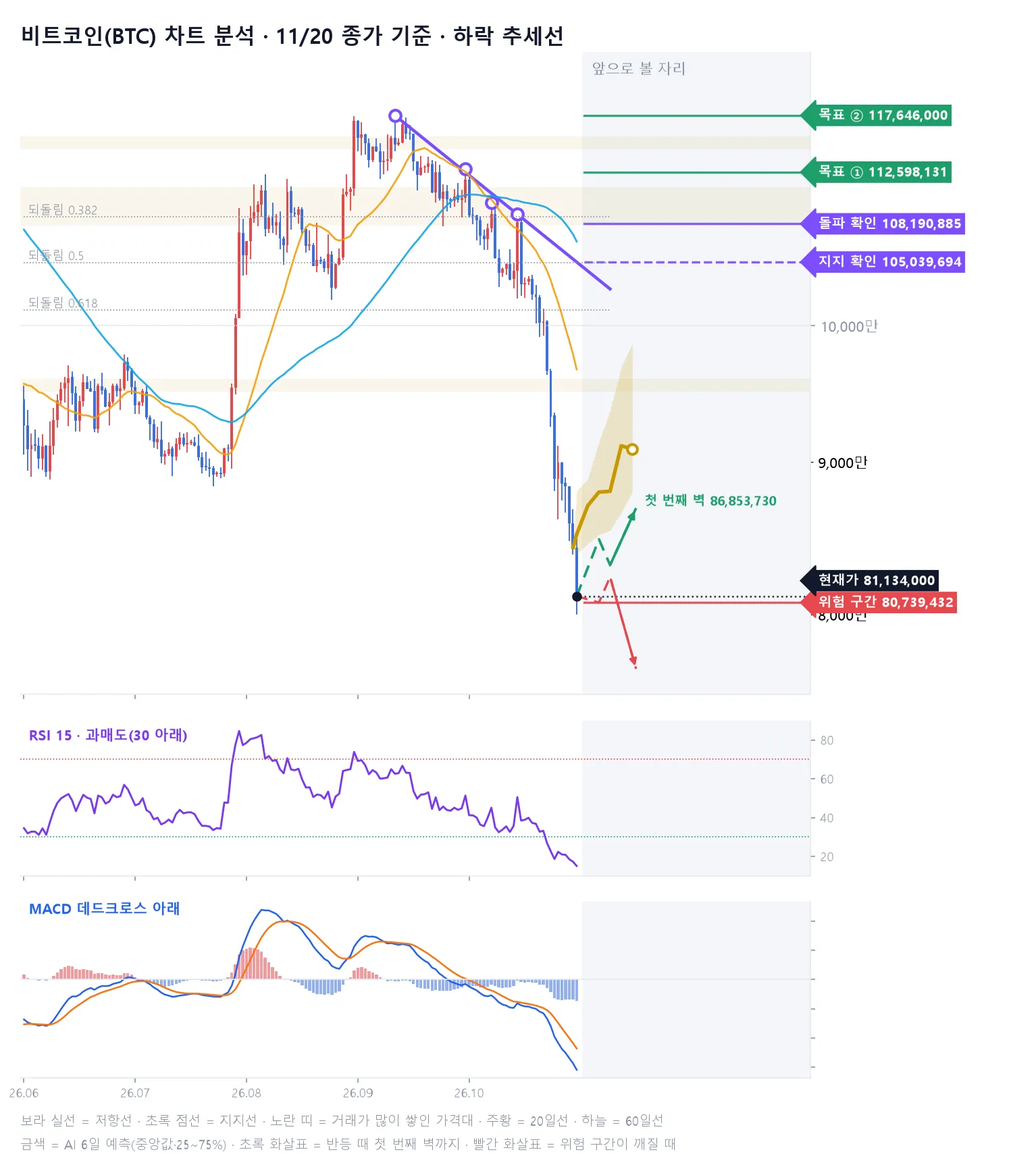
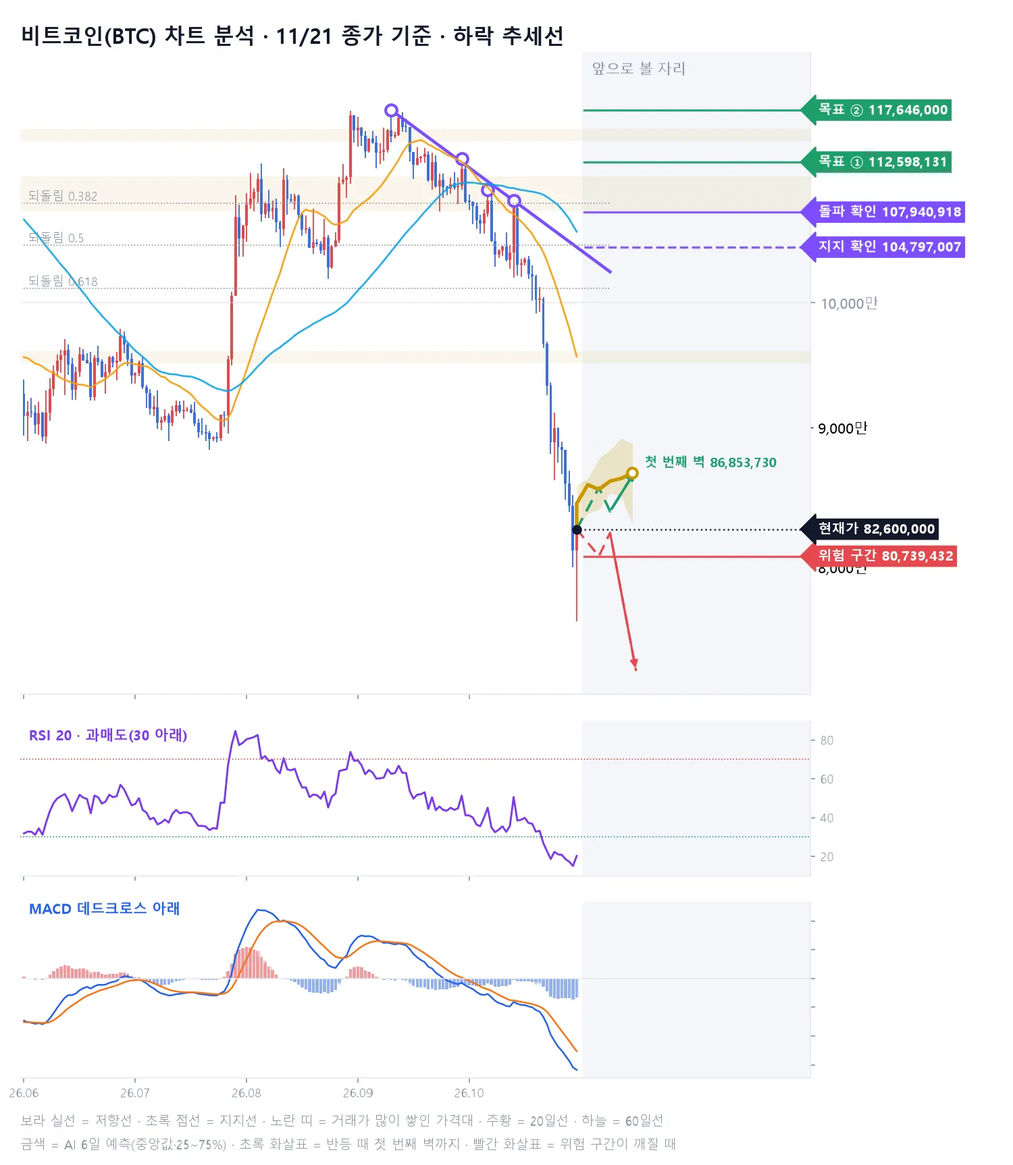
무료 공개 종목 페이지 자동 갱신

diff --git a/s/index.html b/s/index.html
@@ -93,8 +93,8 @@
     <h1>오늘의 무료 공개 종목</h1>
     <p style="margin:0;color:#B7BFD0">유튜브 쇼츠에 나온 종목의 AI 판정과 6일 예측 흐름을 누구나 볼 수 있어요</p>
   </section>
-  <div class="pk-list"><a class="card pk-item" href="BTC/"><span><b>비트코인(BTC)</b><small>코인 · 업비트 · 11/20 예측</small></span><b class="v-mx">혼돈</b></a><a class="card pk-item" href="ETH/"><span><b>이더리움(ETH)</b><small>코인 · 업비트 · 11/21 예측</small></span><b class="v-mx">혼돈</b></a><a class="card pk-item" href="SUI/"><span><b>수이(SUI)</b><small>코인 · 업비트 · 11/22 예측</small></span><b class="v-up">상승</b></a><a class="card pk-item" href="SAND/"><span><b>샌드박스(SAND)</b><small>코인 · 업비트 · 11/22 예측</small></span><b class="v-up">상승</b></a><a class="card pk-item" href="XLM/"><span><b>스텔라루멘(XLM)</b><small>코인 · 업비트 · 11/22 예측</small></span><b class="v-up">상승</b></a><a class="card pk-item" href="AAVE/"><span><b>에이브(AAVE)</b><small>코인 · 업비트 · 11/22 예측</small></span><b class="v-up">상승</b></a><a class="card pk-item" href="MTL/"><span><b>메탈(MTL)</b><small>코인 · 업비트 · 11/22 예측</small></span><b class="v-up">상승</b></a><a class="card pk-item" href="TESLA/"><span><b>테슬라(TSLA)</b><small>미국 주식 · 11/21 예측</small></span><b class="v-up">상승</b></a><a class="card pk-item" href="PALANTIR/"><span><b>팔란티어(PALANTIR)</b><small>미국 주식 · 11/21 예측</small></span><b class="v-up">상승</b></a><a class="card pk-item" href="NVIDIA/"><span><b>엔비디아(NVIDIA)</b><small>미국 주식 · 11/21 예측</small></span><b class="v-up">상승</b></a><a class="card pk-item" href="DOW/"><span><b>다우존스(DOW)</b><small>미국 주식 · 11/21 예측</small></span><b class="v-up">상승</b></a><a class="card pk-item" href="RUSSELL2000/"><span><b>러셀2000(RUSSELL2000)</b><small>미국 주식 · 11/21 예측</small></span><b class="v-up">상승</b></a><a class="card pk-item" href="MERCADOLIBRE/"><span><b>메르카도리브레(MERCADOLIBRE)</b><small>미국 주식 · 11/21 예측</small></span><b class="v-up">상승</b></a><a class="card pk-item" href="SK%ED%95%98%EC%9D%B4%EB%8B%89%EC%8A%A4/"><span><b>SK하이닉스(000660)</b><small>코스피200 · 11/20 예측</small></span><b class="v-mx">혼돈</b></a><a class="card pk-item" href="%EC%82%BC%EC%84%B1%EC%A0%84%EC%9E%90/"><span><b>삼성전자(005930)</b><small>코스피200 · 11/21 예측</small></span><b class="v-mx">혼돈</b></a><a class="card pk-item" href="%ED%95%9C%ED%99%94%EC%86%94%EB%A3%A8%EC%85%98/"><span><b>한화솔루션</b><small>코스피200 · 11/21 예측</small></span><b class="v-mx">혼돈</b></a><a class="card pk-item" href="KODEX%EB%AF%B8%EA%B5%AD%EB%82%98%EC%8A%A4%EB%8B%A5100TR/"><span><b>KODEX미국나스닥100TR</b><small>코스피200 · 11/21 예측</small></span><b class="v-up">상승</b></a><a class="card pk-item" href="TIGER2%EC%B0%A8%EC%A0%84%EC%A7%80%ED%85%8C%EB%A7%88/"><span><b>TIGER2차전지테마</b><small>코스피200 · 11/21 예측</small></span><b class="v-up">상승</b></a><a class="card pk-item" href="TIGER%EB%AF%B8%EA%B5%AD%ED%85%8C%ED%81%ACTOP10/"><span><b>TIGER미국테크TOP10</b><small>코스피200 · 11/21 예측</small></span><b class="v-up">상승</b></a><a class="card pk-item" href="KODEX2%EC%B0%A8%EC%A0%84%EC%A7%80%EC%82%B0%EC%97%85/"><span><b>KODEX2차전지산업</b><small>코스피200 · 11/21 예측</small></span><b class="v-up">상승</b></a><a class="card pk-item" href="KOSDAQ/"><span><b>코스닥(KOSDAQ)</b><small>코스피 지수 · 11/21 예측</small></span><b class="v-up">상승</b></a><a class="card pk-item" href="KOSPI/"><span><b>코스피(KOSPI)</b><small>코스피 지수 · 11/21 예측</small></span><b class="v-up">상승</b></a></div>
-  <h2 style="font-size:17px;margin:12px 0 0">지난 공개 종목</h2><div class="pk-list"><a class="card pk-item" href="ZRO/"><span><b>레이어제로(ZRO)</b><small>코인 · 업비트 · 11/21 예측</small></span><b class="v-mx">혼돈</b></a><a class="card pk-item" href="ETC/"><span><b>이더리움클래식(ETC)</b><small>코인 · 업비트 · 11/21 예측</small></span><b class="v-up">상승</b></a><a class="card pk-item" href="MANA/"><span><b>디센트럴랜드(MANA)</b><small>코인 · 업비트 · 11/21 예측</small></span><b class="v-up">상승</b></a><a class="card pk-item" href="APT/"><span><b>앱토스(APT)</b><small>코인 · 업비트 · 11/20 예측</small></span><b class="v-up">상승</b></a><a class="card pk-item" href="STRAX/"><span><b>저트라(STRAX)</b><small>코인 · 업비트 · 11/20 예측</small></span><b class="v-up">상승</b></a><a class="card pk-item" href="ENS/"><span><b>이더리움네임서비스(ENS)</b><small>코인 · 업비트 · 11/20 예측</small></span><b class="v-up">상승</b></a><a class="card pk-item" href="KODEXWTI%EC%9B%90%EC%9C%A0%EC%84%A0%EB%AC%BCH/"><span><b>KODEXWTI원유선물H</b><small>코스피200 · 11/20 예측</small></span><b class="v-up">상승</b></a><a class="card pk-item" href="%ED%95%9C%EC%A0%84%EA%B8%B0%EC%88%A0/"><span><b>한전기술</b><small>코스피200 · 11/20 예측</small></span><b class="v-up">상승</b></a><a class="card pk-item" href="KODEX%EA%B3%A8%EB%93%9C%EC%84%A0%EB%AC%BCH/"><span><b>KODEX골드선물H</b><small>코스피200 · 11/20 예측</small></span><b class="v-mx">혼돈</b></a><a class="card pk-item" href="STRATEGY/"><span><b>스트래티지(STRATEGY)</b><small>미국 주식 · 11/19 예측</small></span><b class="v-up">상승</b></a><a class="card pk-item" href="NETFLIX/"><span><b>넷플릭스(NETFLIX)</b><small>미국 주식 · 11/19 예측</small></span><b class="v-up">상승</b></a><a class="card pk-item" href="SHIB/"><span><b>시바이누(SHIB)</b><small>코인 · 업비트 · 11/19 예측</small></span><b class="v-up">상승</b></a><a class="card pk-item" href="TOKAMAK/"><span><b>토카막네트워크(TOKAMAK)</b><small>코인 · 업비트 · 11/19 예측</small></span><b class="v-up">상승</b></a><a class="card pk-item" href="TIGER%EB%AF%B8%EA%B5%ADSP500/"><span><b>TIGER미국SP500</b><small>코스피200 · 11/19 예측</small></span><b class="v-mx">혼돈</b></a><a class="card pk-item" href="%EA%B8%B0%EC%95%84/"><span><b>기아</b><small>코스피200 · 11/19 예측</small></span><b class="v-mx">혼돈</b></a><a class="card pk-item" href="%ED%98%84%EB%8C%80%EB%A1%9C%ED%85%9C/"><span><b>현대로템</b><small>코스피200 · 11/19 예측</small></span><b class="v-up">상승</b></a><a class="card pk-item" href="TIGER%EB%B0%98%EB%8F%84%EC%B2%B4TOP10/"><span><b>TIGER반도체TOP10</b><small>코스피200 · 11/19 예측</small></span><b class="v-up">상승</b></a><a class="card pk-item" href="MBL/"><span><b>무비블록(MBL)</b><small>코인 · 업비트 · 11/18 예측</small></span><b class="v-up">상승</b></a><a class="card pk-item" href="SC/"><span><b>시아코인(SC)</b><small>코인 · 업비트 · 11/18 예측</small></span><b class="v-up">상승</b></a><a class="card pk-item" href="ELF/"><span><b>엘프(ELF)</b><small>코인 · 업비트 · 11/18 예측</small></span><b class="v-up">상승</b></a><a class="card pk-item" href="BITMINE/"><span><b>비트마인(BITMINE)</b><small>미국 주식 · 11/18 예측</small></span><b class="v-up">상승</b></a><a class="card pk-item" href="NASDAQ100/"><span><b>나스닥100(NASDAQ100)</b><small>미국 주식 · 11/18 예측</small></span><b class="v-up">상승</b></a><a class="card pk-item" href="NASDAQ/"><span><b>나스닥(NASDAQ)</b><small>미국 주식 · 11/18 예측</small></span><b class="v-up">상승</b></a><a class="card pk-item" href="DB%ED%95%98%EC%9D%B4%ED%85%8D/"><span><b>DB하이텍</b><small>코스피200 · 11/18 예측</small></span><b class="v-up">상승</b></a><a class="card pk-item" href="%ED%95%9C%ED%99%94%EC%83%9D%EB%AA%85/"><span><b>한화생명</b><small>코스피200 · 11/18 예측</small></span><b class="v-mx">혼돈</b></a><a class="card pk-item" href="SOL/"><span><b>솔라나(SOL)</b><small>코인 · 업비트 · 11/17 예측</small></span><b class="v-up">상승</b></a><a class="card pk-item" href="HBAR/"><span><b>헤데라(HBAR)</b><small>코인 · 업비트 · 11/17 예측</small></span><b class="v-up">상승</b></a><a class="card pk-item" href="NEAR/"><span><b>니어프로토콜(NEAR)</b><small>코인 · 업비트 · 11/17 예측</small></span><b class="v-up">상승</b></a><a class="card pk-item" href="CISCO/"><span><b>시스코(CISCO)</b><small>미국 주식 · 11/17 예측</small></span><b class="v-up">상승</b></a><a class="card pk-item" href="DB%EC%86%90%ED%95%B4%EB%B3%B4%ED%97%98/"><span><b>DB손해보험</b><small>코스피200 · 11/17 예측</small></span><b class="v-up">상승</b></a><a class="card pk-item" href="NIKKEI225/"><span><b>NIKKEI225</b><small>코스피200 · 11/17 예측</small></span><b class="v-up">상승</b></a><a class="card pk-item" href="LG/"><span><b>LG</b><small>코스피200 · 11/17 예측</small></span><b class="v-up">상승</b></a><a class="card pk-item" href="NEO/"><span><b>네오(NEO)</b><small>코인 · 업비트 · 11/16 예측</small></span><b class="v-up">상승</b></a><a class="card pk-item" href="MED/"><span><b>메디블록(MED)</b><small>코인 · 업비트 · 11/16 예측</small></span><b class="v-up">상승</b></a><a class="card pk-item" href="VET/"><span><b>비체인(VET)</b><small>코인 · 업비트 · 11/16 예측</small></span><b class="v-up">상승</b></a><a class="card pk-item" href="TFUEL/"><span><b>쎄타퓨엘(TFUEL)</b><small>코인 · 업비트 · 11/16 예측</small></span><b class="v-up">상승</b></a><a class="card pk-item" href="SP500/"><span><b>S&amp;P500(SPX)</b><small>미국 주식 · 11/14 예측</small></span><b class="v-dn">하락</b></a><a class="card pk-item" href="BITCOIN_ETF_FIDELITY/"><span><b>비트코인 현물 피델리티(BITCOIN_ETF_FIDELITY)</b><small>미국 주식 · 11/14 예측</small></span><b class="v-up">상승</b></a><a class="card pk-item" href="BITCOIN_ETF_ISHARES/"><span><b>비트코인 현물 아이셰어즈(BITCOIN_ETF_ISHARES)</b><small>미국 주식 · 11/14 예측</small></span><b class="v-up">상승</b></a></div>
+  <div class="pk-list"><a class="card pk-item" href="BTC/"><span><b>비트코인(BTC)</b><small>코인 · 업비트 · 11/22 예측</small></span><b class="v-up">상승</b></a><a class="card pk-item" href="ETH/"><span><b>이더리움(ETH)</b><small>코인 · 업비트 · 11/21 예측</small></span><b class="v-mx">혼돈</b></a><a class="card pk-item" href="SUI/"><span><b>수이(SUI)</b><small>코인 · 업비트 · 11/22 예측</small></span><b class="v-up">상승</b></a><a class="card pk-item" href="SAND/"><span><b>샌드박스(SAND)</b><small>코인 · 업비트 · 11/22 예측</small></span><b class="v-up">상승</b></a><a class="card pk-item" href="XLM/"><span><b>스텔라루멘(XLM)</b><small>코인 · 업비트 · 11/22 예측</small></span><b class="v-up">상승</b></a><a class="card pk-item" href="AAVE/"><span><b>에이브(AAVE)</b><small>코인 · 업비트 · 11/22 예측</small></span><b class="v-up">상승</b></a><a class="card pk-item" href="MTL/"><span><b>메탈(MTL)</b><small>코인 · 업비트 · 11/22 예측</small></span><b class="v-up">상승</b></a><a class="card pk-item" href="TESLA/"><span><b>테슬라(TSLA)</b><small>미국 주식 · 11/21 예측</small></span><b class="v-up">상승</b></a><a class="card pk-item" href="PALANTIR/"><span><b>팔란티어(PALANTIR)</b><small>미국 주식 · 11/21 예측</small></span><b class="v-up">상승</b></a><a class="card pk-item" href="NVIDIA/"><span><b>엔비디아(NVIDIA)</b><small>미국 주식 · 11/21 예측</small></span><b class="v-up">상승</b></a><a class="card pk-item" href="DOW/"><span><b>다우존스(DOW)</b><small>미국 주식 · 11/21 예측</small></span><b class="v-up">상승</b></a><a class="card pk-item" href="RUSSELL2000/"><span><b>러셀2000(RUSSELL2000)</b><small>미국 주식 · 11/21 예측</small></span><b class="v-up">상승</b></a><a class="card pk-item" href="MERCADOLIBRE/"><span><b>메르카도리브레(MERCADOLIBRE)</b><small>미국 주식 · 11/21 예측</small></span><b class="v-up">상승</b></a><a class="card pk-item" href="%EC%82%BC%EC%84%B1%EC%A0%84%EC%9E%90/"><span><b>삼성전자(005930)</b><small>코스피200 · 11/21 예측</small></span><b class="v-mx">혼돈</b></a><a class="card pk-item" href="%ED%95%9C%ED%99%94%EC%86%94%EB%A3%A8%EC%85%98/"><span><b>한화솔루션</b><small>코스피200 · 11/21 예측</small></span><b class="v-mx">혼돈</b></a><a class="card pk-item" href="KODEX%EB%AF%B8%EA%B5%AD%EB%82%98%EC%8A%A4%EB%8B%A5100TR/"><span><b>KODEX미국나스닥100TR</b><small>코스피200 · 11/21 예측</small></span><b class="v-up">상승</b></a><a class="card pk-item" href="TIGER2%EC%B0%A8%EC%A0%84%EC%A7%80%ED%85%8C%EB%A7%88/"><span><b>TIGER2차전지테마</b><small>코스피200 · 11/21 예측</small></span><b class="v-up">상승</b></a><a class="card pk-item" href="TIGER%EB%AF%B8%EA%B5%AD%ED%85%8C%ED%81%ACTOP10/"><span><b>TIGER미국테크TOP10</b><small>코스피200 · 11/21 예측</small></span><b class="v-up">상승</b></a><a class="card pk-item" href="KODEX2%EC%B0%A8%EC%A0%84%EC%A7%80%EC%82%B0%EC%97%85/"><span><b>KODEX2차전지산업</b><small>코스피200 · 11/21 예측</small></span><b class="v-up">상승</b></a><a class="card pk-item" href="KOSDAQ/"><span><b>코스닥(KOSDAQ)</b><small>코스피 지수 · 11/21 예측</small></span><b class="v-up">상승</b></a><a class="card pk-item" href="KOSPI/"><span><b>코스피(KOSPI)</b><small>코스피 지수 · 11/21 예측</small></span><b class="v-up">상승</b></a></div>
+  <h2 style="font-size:17px;margin:12px 0 0">지난 공개 종목</h2><div class="pk-list"><a class="card pk-item" href="ZRO/"><span><b>레이어제로(ZRO)</b><small>코인 · 업비트 · 11/21 예측</small></span><b class="v-mx">혼돈</b></a><a class="card pk-item" href="ETC/"><span><b>이더리움클래식(ETC)</b><small>코인 · 업비트 · 11/21 예측</small></span><b class="v-up">상승</b></a><a class="card pk-item" href="MANA/"><span><b>디센트럴랜드(MANA)</b><small>코인 · 업비트 · 11/21 예측</small></span><b class="v-up">상승</b></a><a class="card pk-item" href="SK%ED%95%98%EC%9D%B4%EB%8B%89%EC%8A%A4/"><span><b>SK하이닉스(000660)</b><small>코스피200 · 11/20 예측</small></span><b class="v-mx">혼돈</b></a><a class="card pk-item" href="APT/"><span><b>앱토스(APT)</b><small>코인 · 업비트 · 11/20 예측</small></span><b class="v-up">상승</b></a><a class="card pk-item" href="STRAX/"><span><b>저트라(STRAX)</b><small>코인 · 업비트 · 11/20 예측</small></span><b class="v-up">상승</b></a><a class="card pk-item" href="ENS/"><span><b>이더리움네임서비스(ENS)</b><small>코인 · 업비트 · 11/20 예측</small></span><b class="v-up">상승</b></a><a class="card pk-item" href="KODEXWTI%EC%9B%90%EC%9C%A0%EC%84%A0%EB%AC%BCH/"><span><b>KODEXWTI원유선물H</b><small>코스피200 · 11/20 예측</small></span><b class="v-up">상승</b></a><a class="card pk-item" href="%ED%95%9C%EC%A0%84%EA%B8%B0%EC%88%A0/"><span><b>한전기술</b><small>코스피200 · 11/20 예측</small></span><b class="v-up">상승</b></a><a class="card pk-item" href="KODEX%EA%B3%A8%EB%93%9C%EC%84%A0%EB%AC%BCH/"><span><b>KODEX골드선물H</b><small>코스피200 · 11/20 예측</small></span><b class="v-mx">혼돈</b></a><a class="card pk-item" href="STRATEGY/"><span><b>스트래티지(STRATEGY)</b><small>미국 주식 · 11/19 예측</small></span><b class="v-up">상승</b></a><a class="card pk-item" href="NETFLIX/"><span><b>넷플릭스(NETFLIX)</b><small>미국 주식 · 11/19 예측</small></span><b class="v-up">상승</b></a><a class="card pk-item" href="SHIB/"><span><b>시바이누(SHIB)</b><small>코인 · 업비트 · 11/19 예측</small></span><b class="v-up">상승</b></a><a class="card pk-item" href="TOKAMAK/"><span><b>토카막네트워크(TOKAMAK)</b><small>코인 · 업비트 · 11/19 예측</small></span><b class="v-up">상승</b></a><a class="card pk-item" href="TIGER%EB%AF%B8%EA%B5%ADSP500/"><span><b>TIGER미국SP500</b><small>코스피200 · 11/19 예측</small></span><b class="v-mx">혼돈</b></a><a class="card pk-item" href="%EA%B8%B0%EC%95%84/"><span><b>기아</b><small>코스피200 · 11/19 예측</small></span><b class="v-mx">혼돈</b></a><a class="card pk-item" href="%ED%98%84%EB%8C%80%EB%A1%9C%ED%85%9C/"><span><b>현대로템</b><small>코스피200 · 11/19 예측</small></span><b class="v-up">상승</b></a><a class="card pk-item" href="TIGER%EB%B0%98%EB%8F%84%EC%B2%B4TOP10/"><span><b>TIGER반도체TOP10</b><small>코스피200 · 11/19 예측</small></span><b class="v-up">상승</b></a><a class="card pk-item" href="MBL/"><span><b>무비블록(MBL)</b><small>코인 · 업비트 · 11/18 예측</small></span><b class="v-up">상승</b></a><a class="card pk-item" href="SC/"><span><b>시아코인(SC)</b><small>코인 · 업비트 · 11/18 예측</small></span><b class="v-up">상승</b></a><a class="card pk-item" href="ELF/"><span><b>엘프(ELF)</b><small>코인 · 업비트 · 11/18 예측</small></span><b class="v-up">상승</b></a><a class="card pk-item" href="BITMINE/"><span><b>비트마인(BITMINE)</b><small>미국 주식 · 11/18 예측</small></span><b class="v-up">상승</b></a><a class="card pk-item" href="NASDAQ100/"><span><b>나스닥100(NASDAQ100)</b><small>미국 주식 · 11/18 예측</small></span><b class="v-up">상승</b></a><a class="card pk-item" href="NASDAQ/"><span><b>나스닥(NASDAQ)</b><small>미국 주식 · 11/18 예측</small></span><b class="v-up">상승</b></a><a class="card pk-item" href="DB%ED%95%98%EC%9D%B4%ED%85%8D/"><span><b>DB하이텍</b><small>코스피200 · 11/18 예측</small></span><b class="v-up">상승</b></a><a class="card pk-item" href="%ED%95%9C%ED%99%94%EC%83%9D%EB%AA%85/"><span><b>한화생명</b><small>코스피200 · 11/18 예측</small></span><b class="v-mx">혼돈</b></a><a class="card pk-item" href="SOL/"><span><b>솔라나(SOL)</b><small>코인 · 업비트 · 11/17 예측</small></span><b class="v-up">상승</b></a><a class="card pk-item" href="HBAR/"><span><b>헤데라(HBAR)</b><small>코인 · 업비트 · 11/17 예측</small></span><b class="v-up">상승</b></a><a class="card pk-item" href="NEAR/"><span><b>니어프로토콜(NEAR)</b><small>코인 · 업비트 · 11/17 예측</small></span><b class="v-up">상승</b></a><a class="card pk-item" href="CISCO/"><span><b>시스코(CISCO)</b><small>미국 주식 · 11/17 예측</small></span><b class="v-up">상승</b></a><a class="card pk-item" href="DB%EC%86%90%ED%95%B4%EB%B3%B4%ED%97%98/"><span><b>DB손해보험</b><small>코스피200 · 11/17 예측</small></span><b class="v-up">상승</b></a><a class="card pk-item" href="NIKKEI225/"><span><b>NIKKEI225</b><small>코스피200 · 11/17 예측</small></span><b class="v-up">상승</b></a><a class="card pk-item" href="LG/"><span><b>LG</b><small>코스피200 · 11/17 예측</small></span><b class="v-up">상승</b></a><a class="card pk-item" href="NEO/"><span><b>네오(NEO)</b><small>코인 · 업비트 · 11/16 예측</small></span><b class="v-up">상승</b></a><a class="card pk-item" href="MED/"><span><b>메디블록(MED)</b><small>코인 · 업비트 · 11/16 예측</small></span><b class="v-up">상승</b></a><a class="card pk-item" href="VET/"><span><b>비체인(VET)</b><small>코인 · 업비트 · 11/16 예측</small></span><b class="v-up">상승</b></a><a class="card pk-item" href="TFUEL/"><span><b>쎄타퓨엘(TFUEL)</b><small>코인 · 업비트 · 11/16 예측</small></span><b class="v-up">상승</b></a><a class="card pk-item" href="SP500/"><span><b>S&amp;P500(SPX)</b><small>미국 주식 · 11/14 예측</small></span><b class="v-dn">하락</b></a><a class="card pk-item" href="BITCOIN_ETF_FIDELITY/"><span><b>비트코인 현물 피델리티(BITCOIN_ETF_FIDELITY)</b><small>미국 주식 · 11/14 예측</small></span><b class="v-up">상승</b></a><a class="card pk-item" href="BITCOIN_ETF_ISHARES/"><span><b>비트코인 현물 아이셰어즈(BITCOIN_ETF_ISHARES)</b><small>미국 주식 · 11/14 예측</small></span><b class="v-up">상승</b></a></div>
   <section class="card pk-cta">
     <b style="font-size:17px">전체 종목 순위와 모델별 차트는 회원 화면에서</b>
     <a class="btn big red" href="../login.html?next=index.html#signup" data-member="../index.html" data-member-text="내 포털로 가기">7일 무료로 시작하기</a>

diff --git a/s/BTC/index.html b/s/BTC/index.html
@@ -3,13 +3,13 @@
 <head>
 <meta charset="utf-8">
 <meta name="viewport" content="width=device-width, initial-scale=1">
-<title>비트코인(BTC) 전망 11/20 · AI 52개 모델 6일 예측 | AI 신호등</title>
-<meta name="description" content="11/20 기준 비트코인(BTC) 다음 거래일 AI 판정은 &#x27;혼돈&#x27;. 52개 모델 중 상승 27 · 하락 15. 6일 뒤 예측 중앙값 +7.9%. 52개 예측 모델의 6일 가격 흐름을 신호등으로 정리했어요.">
+<title>비트코인(BTC) 전망 11/22 · AI 52개 모델 6일 예측 | AI 신호등</title>
+<meta name="description" content="11/22 기준 비트코인(BTC) 다음 거래일 AI 판정은 &#x27;상승&#x27;. 52개 모델 중 상승 39 · 하락 2. 6일 뒤 예측 중앙값 +4.9%. 52개 예측 모델의 6일 가격 흐름을 신호등으로 정리했어요.">
 <link rel="canonical" href="https://www.ai-sinhodeung.co.kr/s/BTC/">
 <meta property="og:type" content="article">
 <meta property="og:site_name" content="AI 신호등">
-<meta property="og:title" content="비트코인(BTC) 전망 11/20 · AI 52개 모델 6일 예측 | AI 신호등">
-<meta property="og:description" content="11/20 기준 비트코인(BTC) 다음 거래일 AI 판정은 &#x27;혼돈&#x27;. 52개 모델 중 상승 27 · 하락 15. 6일 뒤 예측 중앙값 +7.9%. 52개 예측 모델의 6일 가격 흐름을 신호등으로 정리했어요.">
+<meta property="og:title" content="비트코인(BTC) 전망 11/22 · AI 52개 모델 6일 예측 | AI 신호등">
+<meta property="og:description" content="11/22 기준 비트코인(BTC) 다음 거래일 AI 판정은 &#x27;상승&#x27;. 52개 모델 중 상승 39 · 하락 2. 6일 뒤 예측 중앙값 +4.9%. 52개 예측 모델의 6일 가격 흐름을 신호등으로 정리했어요.">
 <meta property="og:url" content="https://www.ai-sinhodeung.co.kr/s/BTC/">
 <meta property="og:image" content="https://www.ai-sinhodeung.co.kr/assets/og-image.png">
 <meta property="og:locale" content="ko_KR">
@@ -76,7 +76,7 @@
 .ca-g.npn { border-color: #C99700 !important; background: #FFF8E1; } .ca-g.npn b { color: #A87E00 !important; }
 .ca-flash { animation: caf 1.6s ease-out; } @keyframes caf { 0%, 40% { box-shadow: 0 0 0 3px #C99700; } 100% { box-shadow: 0 0 0 0 transparent; } }
 </style>
-<script type="application/ld+json">{"@context": "https://schema.org", "@type": "Article", "headline": "비트코인(BTC) 전망 11/20 · AI 52개 모델 6일 예측 | AI 신호등", "description": "11/20 기준 비트코인(BTC) 다음 거래일 AI 판정은 '혼돈'. 52개 모델 중 상승 27 · 하락 15. 6일 뒤 예측 중앙값 +7.9%. 52개 예측 모델의 6일 가격 흐름을 신호등으로 정리했어요.", "dateModified": "2026-11-20", "inLanguage": "ko", "url": "https://www.ai-sinhodeung.co.kr/s/BTC/", "publisher": {"@type": "Organization", "name": "AI 신호등", "url": "https://www.ai-sinhodeung.co.kr"}}</script>
+<script type="application/ld+json">{"@context": "https://schema.org", "@type": "Article", "headline": "비트코인(BTC) 전망 11/22 · AI 52개 모델 6일 예측 | AI 신호등", "description": "11/22 기준 비트코인(BTC) 다음 거래일 AI 판정은 '상승'. 52개 모델 중 상승 39 · 하락 2. 6일 뒤 예측 중앙값 +4.9%. 52개 예측 모델의 6일 가격 흐름을 신호등으로 정리했어요.", "dateModified": "2026-11-22", "inLanguage": "ko", "url": "https://www.ai-sinhodeung.co.kr/s/BTC/", "publisher": {"@type": "Organization", "name": "AI 신호등", "url": "https://www.ai-sinhodeung.co.kr"}}</script>
 </head>
 <body class="home landing">
 <header class="topbar">
@@ -89,65 +89,65 @@
 
 <main class="pk">
   <section class="pk-hero on-night">
-    <small>코인 · 업비트 · 11/20 예측 · AI 모델 52개</small>
+    <small>코인 · 업비트 · 11/22 예측 · AI 모델 52개</small>
     <h1>비트코인(BTC) 전망</h1>
   </section>
 
   <section class="card">
     <div class="pk-verdict">
-      <div class="lamp mx" aria-hidden="true"><i></i><i></i><i></i></div>
+      <div class="lamp up" aria-hidden="true"><i></i><i></i><i></i></div>
       <div><small style="color:var(--muted);font-size:12.5px">다음 거래일(D+1) AI 판정</small><br>
-        <b class="v-mx">혼돈</b><br><span>52개 모델 중 상승 27 · 하락 15</span></div>
+        <b class="v-up">상승</b><br><span>52개 모델 중 상승 39 · 하락 2</span></div>
     </div>
     <p style="margin:10px 0 0;color:var(--sub);font-size:14px">참고: 박스권 횡보</p>
   </section>
 
   <section class="card">
     <h3 style="margin-bottom:6px">6일 예측 흐름</h3>
-    <p class="hint" style="margin:0 0 10px;font-size:13px">기준가 84,250,000원 · 6일 뒤 예측 중앙값 <b class="v-mx">+7.9%</b></p>
+    <p class="hint" style="margin:0 0 10px;font-size:13px">기준가 82,600,000원 · 6일 뒤 예측 중앙값 <b class="v-up">+4.9%</b></p>
     <svg viewBox="0 0 520 300" role="img" aria-label="최근 8일 종가와 앞으로 6일 예측 범위" class="pk-chart">
   <line x1="277.1" y1="30" x2="277.1" y2="266" stroke="#C5CAD6" stroke-dasharray="4 4"/>
-  <polygon points="277.1,243.6 315.2,191.8 353.4,180.8 391.5,145.1 429.7,114.9 467.8,70.8 506.0,46.3 506.0,193.0 467.8,212.1 429.7,228.2 391.5,232.0 353.4,239.9 315.2,249.7 277.1,243.6" fill="#C99700" fill-opacity=".14"/>
-  <polyline points="10.0,74.0 48.2,120.3 86.3,180.3 124.5,165.3 162.6,184.8 200.8,187.4 238.9,222.0 277.1,243.6" fill="none" stroke="#12182B" stroke-width="2.4" stroke-linejoin="round"/>
-  <polyline points="277.1,243.6 315.2,231.8 353.4,205.5 391.5,193.0 429.7,192.3 467.8,149.0 506.0,152.0" fill="none" stroke="#C99700" stroke-width="3" stroke-linejoin="round"/>
-  <circle cx="277.1" cy="243.6" r="4.5" fill="#12182B"/>
-  <circle cx="506.0" cy="152.0" r="6" fill="#fff" stroke="#C99700" stroke-width="3"/>
-  <text x="506" y="20" text-anchor="end" font-size="18" font-weight="700" fill="#C99700">6일 뒤 +7.9%</text>
-  <text x="10" y="290" font-size="15" fill="#8A93A6">11-12</text>
-  <text x="277.1" y="290" font-size="15" fill="#12182B" text-anchor="middle" font-weight="600">11-19 기준</text>
-  <text x="506" y="290" font-size="15" fill="#8A93A6" text-anchor="end">11-25</text>
+  <polygon points="277.1,215.9 315.2,142.8 353.4,133.0 391.5,98.2 429.7,84.3 467.8,63.7 506.0,73.1 506.0,206.9 467.8,162.7 429.7,156.4 391.5,183.6 353.4,190.6 315.2,212.5 277.1,215.9" fill="#E5383B" fill-opacity=".14"/>
+  <polyline points="10.0,71.5 48.2,46.3 86.3,79.0 124.5,83.4 162.6,141.6 200.8,177.8 238.9,249.7 277.1,215.9" fill="none" stroke="#12182B" stroke-width="2.4" stroke-linejoin="round"/>
+  <polyline points="277.1,215.9 315.2,174.0 353.4,142.9 391.5,150.9 429.7,136.9 467.8,132.4 506.0,123.2" fill="none" stroke="#E5383B" stroke-width="3" stroke-linejoin="round"/>
+  <circle cx="277.1" cy="215.9" r="4.5" fill="#12182B"/>
+  <circle cx="506.0" cy="123.2" r="6" fill="#fff" stroke="#E5383B" stroke-width="3"/>
+  <text x="506" y="20" text-anchor="end" font-size="18" font-weight="700" fill="#E5383B">6일 뒤 +4.9%</text>
+  <text x="10" y="290" font-size="15" fill="#8A93A6">11-14</text>
+  <text x="277.1" y="290" font-size="15" fill="#12182B" text-anchor="middle" font-weight="600">11-21 기준</text>
+  <text x="506" y="290" font-size="15" fill="#8A93A6" text-anchor="end">11-27</text>
 </svg>
-    <div class="pk-legend"><span><i style="background:#12182B"></i>실제 종가</span><span><i style="background:#C99700"></i>모델 예측 중앙값</span><span><i style="background:#C99700;height:8px;opacity:.2"></i>모델 25~75% 범위</span></div>
+    <div class="pk-legend"><span><i style="background:#12182B"></i>실제 종가</span><span><i style="background:#E5383B"></i>모델 예측 중앙값</span><span><i style="background:#E5383B;height:8px;opacity:.2"></i>모델 25~75% 범위</span></div>
   </section>
 
 
   <section class="card pk-cta">
     <b style="font-size:17px">📐 차트로 보면 어떤 자리일까?</b>
-    <p style="font-size:15px;color:var(--ink)">📊 차트 신호 점수 <b style="color:#8A93A6">34점 · 약</b> · AI 포함 <b style="color:#8A93A6">37점 · 약</b></p>
+    <p style="font-size:15px;color:var(--ink)">📊 차트 신호 점수 <b style="color:#8A93A6">34점 · 약</b> · AI 포함 <b style="color:#C99700">47점 · 중</b></p>
     <button class="btn big" type="button" onclick="var c=document.getElementById('ca');c.classList.toggle('open');this.textContent=c.classList.contains('open')?'차트 분석 접기':'📐 차트 분석 보기';if(c.classList.contains('open')){c.scrollIntoView({behavior:'smooth'});try{Portal.track('pick_chart')}catch(e){}}">📐 차트 분석 보기</button>
     <p>추세선·지지선·피보나치·거래가 몰린 가격대를 자동으로 그려서, 앞으로 볼 자리를 정리했어요</p>
   </section>
 
   <section class="card ca" id="ca">
-    <h3 style="margin:0">비트코인(BTC) 차트 분석 <small style="color:var(--muted);font-weight:400;font-size:13px">11/20 종가 81,134,000원 기준</small></h3>
+    <h3 style="margin:0">비트코인(BTC) 차트 분석 <small style="color:var(--muted);font-weight:400;font-size:13px">11/21 종가 82,600,000원 기준</small></h3>
     <div class="ca-strip" aria-label="패턴 한눈에 (진한 색 = 해당, 빗금 = 근접)" onclick="var b=event.target.closest('button[data-k]');if(!b)return;var c=[].find.call(document.querySelectorAll('#ca .ca-g[data-k]'),function(d){return d.getAttribute('data-k')===b.getAttribute('data-k')});if(!c)return;c.scrollIntoView({behavior:'smooth',block:'center'});c.classList.remove('ca-flash');void c.offsetWidth;c.classList.add('ca-flash')"><button type="button" class="d" data-k="이동평균" title="이동평균 · 해당">역배열</button><span class="sep"></span><button type="button" class="off" data-k="역헤드앤숄더" title="역헤드앤숄더 · 아님">역헤드앤숄더</button><button type="button" class="off" data-k="헤드앤숄더" title="헤드앤숄더 · 아님">헤드앤숄더</button><button type="button" class="off" data-k="컵앤핸들" title="컵앤핸들 · 아님">컵앤핸들</button><button type="button" class="off" data-k="이중 바닥(W)" title="이중 바닥(W) · 아님">이중 바닥</button><button type="button" class="off" data-k="이중 천장(M)" title="이중 천장(M) · 아님">이중 천장</button><button type="button" class="off" data-k="하락쐐기" title="하락쐐기 · 아님">하락쐐기</button><button type="button" class="off" data-k="상승쐐기" title="상승쐐기 · 아님">상승쐐기</button><button type="button" class="off" data-k="3 Tight Closes" title="3 Tight Closes · 아님">3 Tight Closes</button><button type="button" class="off" data-k="상승 페넌트" title="상승 페넌트 · 아님">상승 페넌트</button><button type="button" class="off" data-k="상승 깃발" title="상승 깃발 · 아님">상승 깃발</button><button type="button" class="off" data-k="과장 상승 다이버전스" title="과장 상승 다이버전스 · 아님">과장 상승 다이버</button></div><small style="color:var(--muted);font-size:12px;margin-top:-8px">진한 색 = 해당 · 빗금 = 근접 · 누르면 아래 설명으로 가요</small>
-    <a href="chart.webp?v=2026-11-20" target="_blank" rel="noopener"><img src="chart.webp?v=2026-11-20" alt="비트코인(BTC) 차트 분석: 저항선·지지선·앞으로 볼 자리" loading="lazy"></a>
+    <a href="chart.webp?v=2026-11-21" target="_blank" rel="noopener"><img src="chart.webp?v=2026-11-21" alt="비트코인(BTC) 차트 분석: 저항선·지지선·앞으로 볼 자리" loading="lazy"></a>
     <small style="color:var(--muted);font-size:12px;margin-top:-8px">그림을 누르면 크게 볼 수 있어요</small>
     <div class="ca-pat">지금 모양: <b>하락 추세선</b><br>고점이 차례로 낮아지는 하락 흐름 — 이 선을 위로 넘어서야 흐름이 바뀐 걸로 봐요</div>
     
     <div class="ca-score">
       <h4 style="margin:0 0 8px">📊 차트 신호 점검</h4>
       <h4 style="margin:4px 0 0">🔎 패턴 점검</h4><div class="ca-grid"><div class="ca-g" data-k="이동평균" style="border-color:#3B6FE0"><span>이동평균</span><b style="color:#3B6FE0">역배열</b></div><div class="ca-g off" data-k="역헤드앤숄더" style=""><span>역헤드앤숄더</span><b style="color:#9AA3B5">아님</b></div><div class="ca-g off" data-k="헤드앤숄더" style=""><span>헤드앤숄더</span><b style="color:#9AA3B5">아님</b></div><div class="ca-g off" data-k="컵앤핸들" style=""><span>컵앤핸들</span><b style="color:#9AA3B5">아님</b></div><div class="ca-g off" data-k="이중 바닥(W)" style=""><span>이중 바닥(W)</span><b style="color:#9AA3B5">아님</b></div><div class="ca-g off" data-k="이중 천장(M)" style=""><span>이중 천장(M)</span><b style="color:#9AA3B5">아님</b></div><div class="ca-g off" data-k="하락쐐기" style=""><span>하락쐐기</span><b style="color:#9AA3B5">아님</b></div><div class="ca-g off" data-k="상승쐐기" style=""><span>상승쐐기</span><b style="color:#9AA3B5">아님</b></div></div><small style="color:var(--muted);font-size:12px">가능성 = 모양이 만들어지는 중 · 정해 둔 규칙에 맞을 때만 표시해요</small><h4 style="margin:10px 0 0">🧩 매매 패턴 <small style="font-weight:400;color:var(--muted);font-size:12px">5년 검증에서 통한 4가지</small></h4><div class="ca-grid"><div class="ca-g off" data-k="3 Tight Closes"><span>3 Tight Closes</span><b>아님</b></div><div class="ca-g off" data-k="상승 페넌트"><span>상승 페넌트</span><b>아님</b></div><div class="ca-g off" data-k="상승 깃발"><span>상승 깃발</span><b>아님</b></div><div class="ca-g off" data-k="과장 상승 다이버전스"><span>과장 상승 다이버전스</span><b>아님</b></div></div>
-      <div class="ca-scs"><div class="ca-sc"><small>차트만 본 점수</small><b style="color:#8A93A6">34</b><span style="background:#8A93A6">약</span></div><div class="ca-sc"><small>AI 예측까지 넣은 점수</small><b style="color:#8A93A6">37</b><span style="background:#8A93A6">약</span></div></div>
+      <div class="ca-scs"><div class="ca-sc"><small>차트만 본 점수</small><b style="color:#8A93A6">34</b><span style="background:#8A93A6">약</span></div><div class="ca-sc"><small>AI 예측까지 넣은 점수</small><b style="color:#C99700">47</b><span style="background:#C99700">중</span></div></div>
       <div class="ca-chips"><span class="ca-chip">⚪ 하락 추세선 · 형성 중</span></div>
       <ul class="ca-ck"><li>▫ 반전 첫 신호(저점 상승)</li><li>▫ 전고 돌파(추세 완성)</li><li>✅ 거래량 1.5배</li><li>▫ 상승 다이버전스</li><li>▫ 하락 다이버전스 없음</li><li>▫ 큰 상승(깃대) +100%</li><li>▫ 되돌림 0.618 안</li></ul>
       
       <small style="color:var(--muted);font-size:12px">모양 10/40 · 점검표 6/42 · 시장 18/18 · AI 넣은 점수 = 차트×0.8 + AI 판정(상승 20·혼돈 10·하락 0) · 70↑ 강 · 40~69 중 · 40↓ 약<br>
       조건이 몇 개 맞는지 센 점수예요. 앞으로 오를 확률이 아니에요.</small>
     </div>
-    <div class="ca-combo"><b>🤖 AI 예측과 같이 보면</b><br>다음 거래일 AI 판정 &#x27;혼돈&#x27;. AI 6일 예측 중앙값은 +7.9%(90,912,898)로, 저항선(105,039,694)까지는 못 미쳐요 → 당분간은 돌파보다 아래 지지 자리를 지키는지 보는 구간이에요.</div>
-    <div><h4 style="margin:0 0 8px">앞으로 볼 자리</h4><div class="ca-lv"><div class="goal"><b>목표 구간 ③</b><span>130,790,280원</span><small>수평 고점</small></div><div class="goal"><b>목표 구간 ②</b><span>117,646,000원</span><small>패턴 시작 고점</small></div><div class="goal"><b>목표 구간 ①</b><span>112,598,131원</span><small>수평 고점</small></div><div class="watch"><b>돌파 확인 자리</b><span>108,190,885원</span><small>종가가 저항선보다 3% 넘게 위에서 마감 (돌파 뒤 101,888,503 아래로 다시 마감하면 돌파 실패)</small></div><div class="watch"><b>지지 확인 자리</b><span>105,039,694원</span><small>돌파 뒤 저항선이 받쳐 주는지</small></div><div class="risk"><b>위험 구간</b><span>80,739,432원</span><small>지금 가격 아래 지지선. 이 아래로 마감하면 하락 흐름이 이어질 수 있어요</small></div></div></div>
-    <div><h4 style="margin:0 0 6px">해석</h4><ul><li>저항선이 하루에 약 0.2%씩 내려오고 있어서, &#x27;돌파 확인 자리&#x27;도 날마다 조금씩 낮아져요. 저항선까지 거리가 있어서, 그림의 초록 점선은 바로 위 첫 번째 벽까지 반등할 때의 흐름이에요.</li><li>지금 가격은 저항선보다 29% 아래예요. 아직 돌파를 말하기엔 거리가 있어요.</li><li>직전 큰 상승분을 모두 되돌렸어요. 새 바닥이 확인될 때까지는 조심스럽게 봐요.</li><li>아래에서 받쳐 줄 자리: 80,739,432</li><li>이더리움 상태: 특별한 경고 없음</li></ul></div>
+    <div class="ca-combo"><b>🤖 AI 예측과 같이 보면</b><br>다음 거래일 AI 판정 &#x27;상승&#x27;. AI 6일 예측 중앙값은 +4.9%(86,617,723)로, 저항선(104,797,007)까지는 못 미쳐요 → 당분간은 돌파보다 아래 지지 자리를 지키는지 보는 구간이에요.</div>
+    <div><h4 style="margin:0 0 8px">앞으로 볼 자리</h4><div class="ca-lv"><div class="goal"><b>목표 구간 ③</b><span>130,790,280원</span><small>수평 고점</small></div><div class="goal"><b>목표 구간 ②</b><span>117,646,000원</span><small>패턴 시작 고점</small></div><div class="goal"><b>목표 구간 ①</b><span>112,598,131원</span><small>수평 고점</small></div><div class="watch"><b>돌파 확인 자리</b><span>107,940,918원</span><small>종가가 저항선보다 3% 넘게 위에서 마감 (돌파 뒤 101,653,097 아래로 다시 마감하면 돌파 실패)</small></div><div class="watch"><b>지지 확인 자리</b><span>104,797,007원</span><small>돌파 뒤 저항선이 받쳐 주는지</small></div><div class="risk"><b>위험 구간</b><span>80,739,432원</span><small>지금 가격 아래 지지선. 이 아래로 마감하면 하락 흐름이 이어질 수 있어요</small></div></div></div>
+    <div><h4 style="margin:0 0 6px">해석</h4><ul><li>저항선이 하루에 약 0.2%씩 내려오고 있어서, &#x27;돌파 확인 자리&#x27;도 날마다 조금씩 낮아져요. 저항선까지 거리가 있어서, 그림의 초록 점선은 바로 위 첫 번째 벽까지 반등할 때의 흐름이에요.</li><li>지금 가격은 저항선보다 27% 아래예요. 아직 돌파를 말하기엔 거리가 있어요.</li><li>직전 큰 상승분을 모두 되돌렸어요. 새 바닥이 확인될 때까지는 조심스럽게 봐요.</li><li>아래에서 받쳐 줄 자리: 80,739,432</li><li>이더리움 상태: 특별한 경고 없음</li></ul></div>
     <p class="pk-note" style="text-align:left">차트 모양을 규칙대로 자동 분석한 참고 자료예요. 특정 가격에 사고팔라는 권유가 아니며, 가격이 어느 자리에 있는지 보는 용도로만 써 주세요.</p>
   </section>
 
